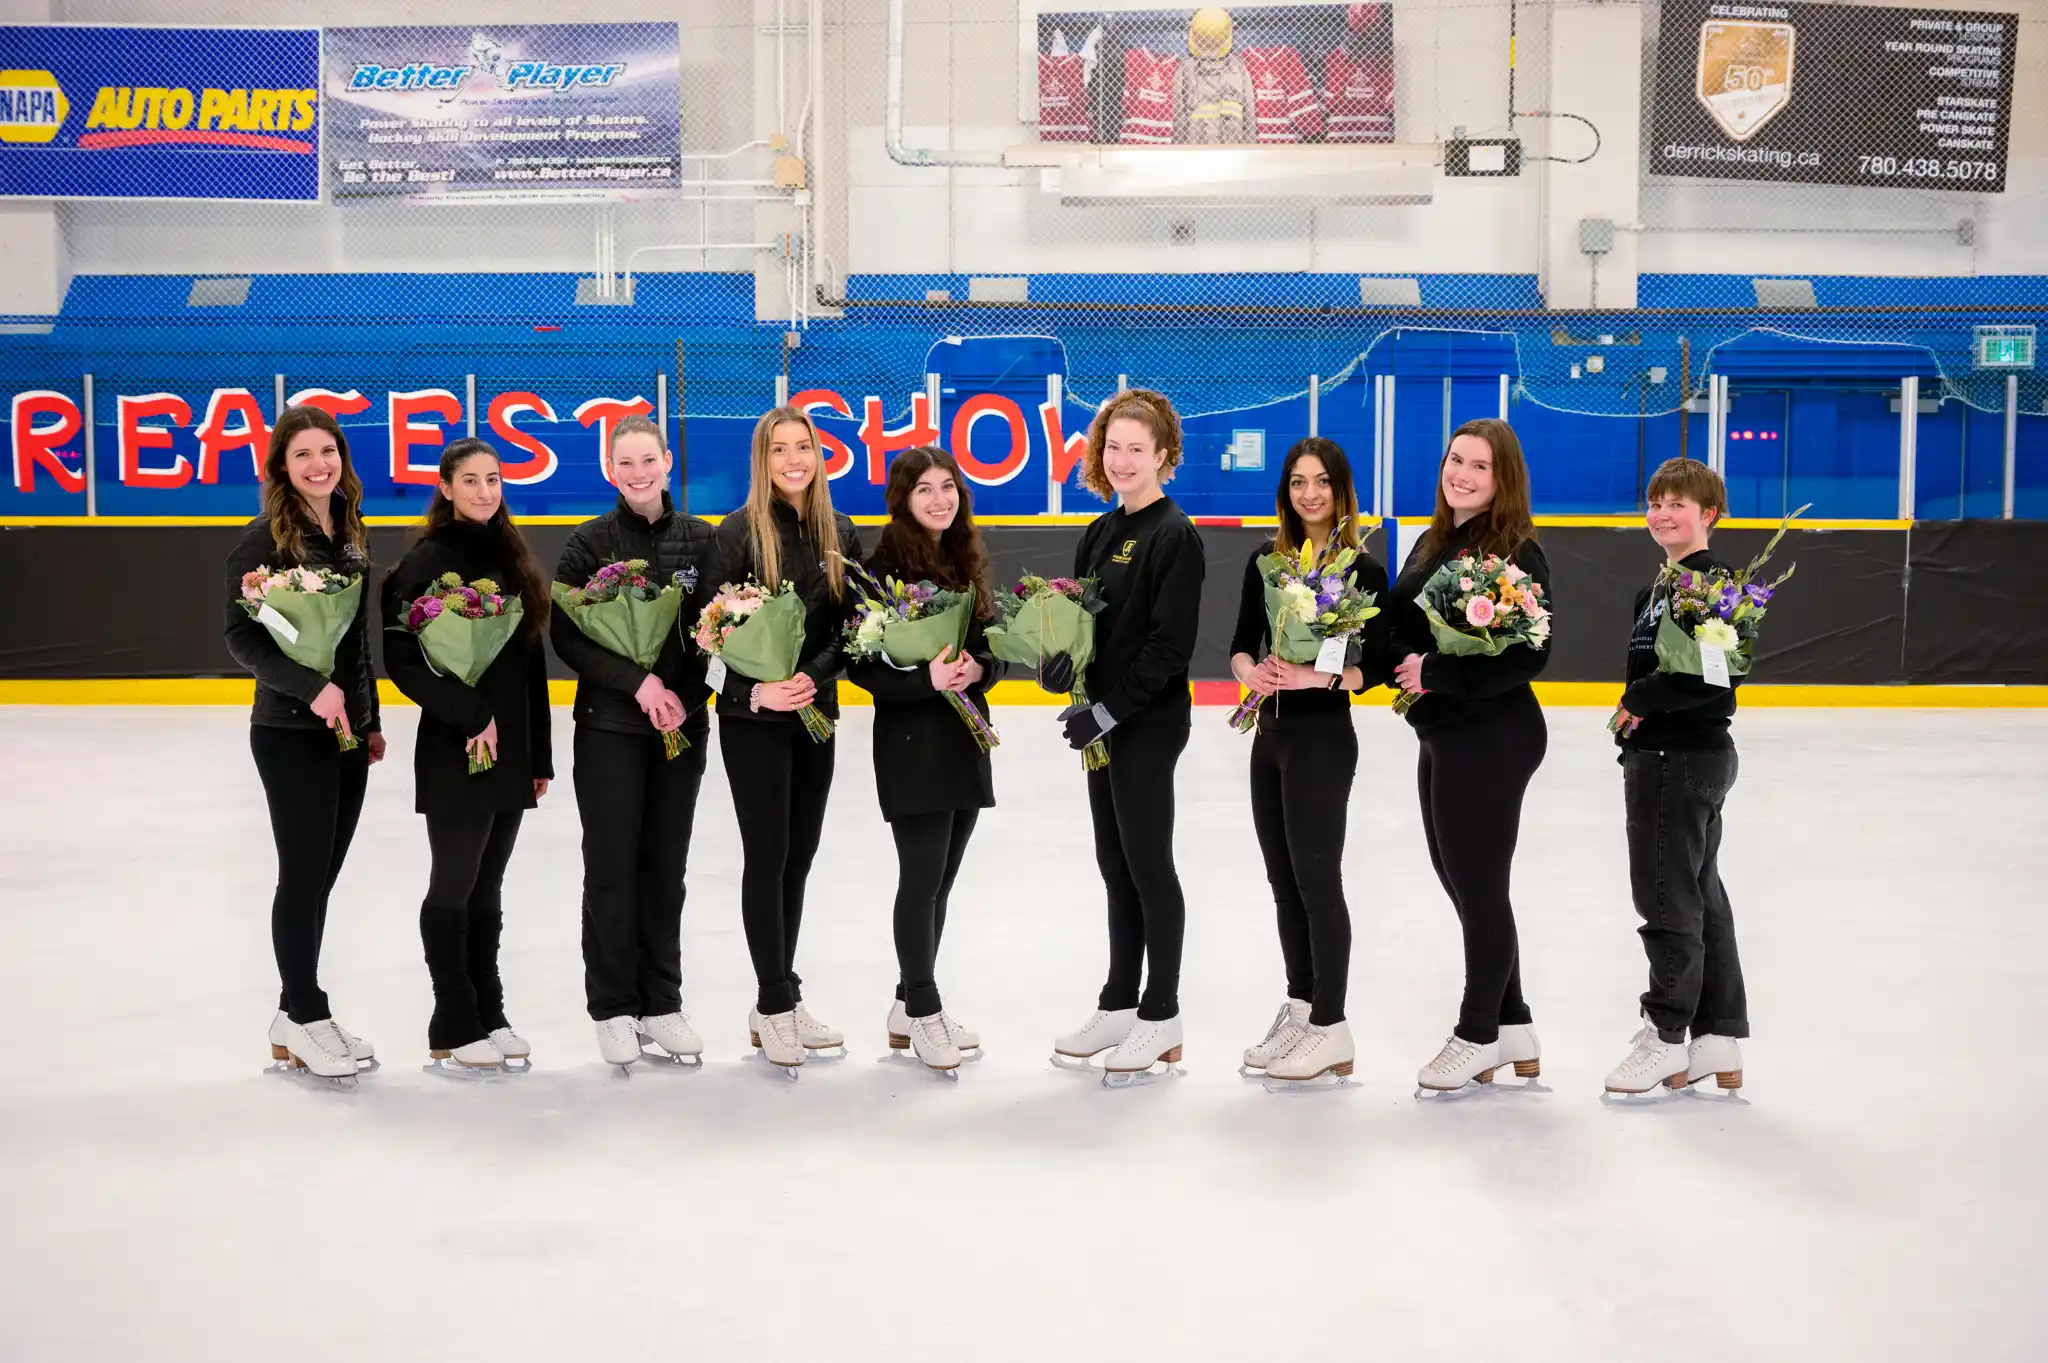
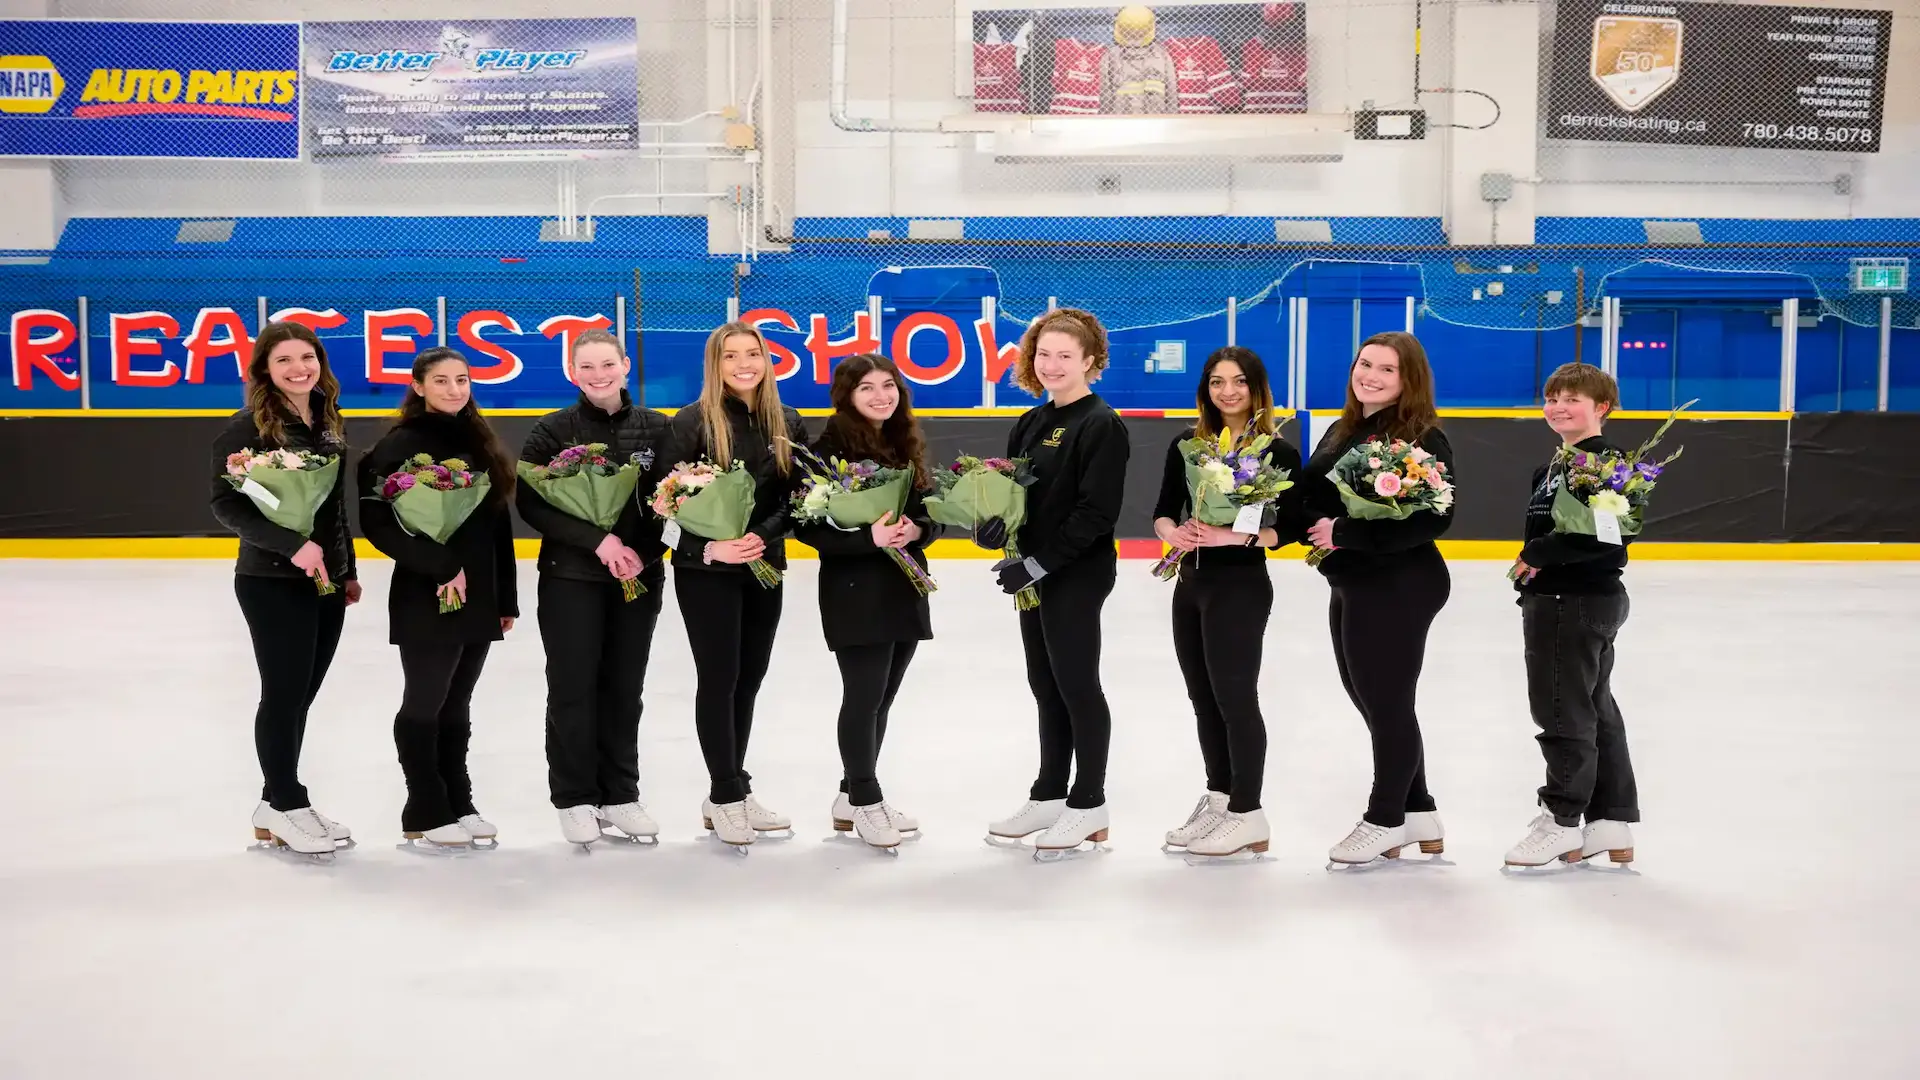
optimization

diff --git a/ClientApp/src/Pages/Schedule.js b/ClientApp/src/Pages/Schedule.js
@@ -1,7 +1,7 @@
 import React from 'react';
 import GoogleSchedule from "../Components/GoogleCalendar/GoogleCalendar";
 import Banner from "../Components/Banner/Banner";
-import BannerImg from "../assets/Banners/schedule-banner.jpg"
+import BannerImg from "../assets/Banners/schedule-banner.webp"
 
 const SchedulePage = () => {
     return (
